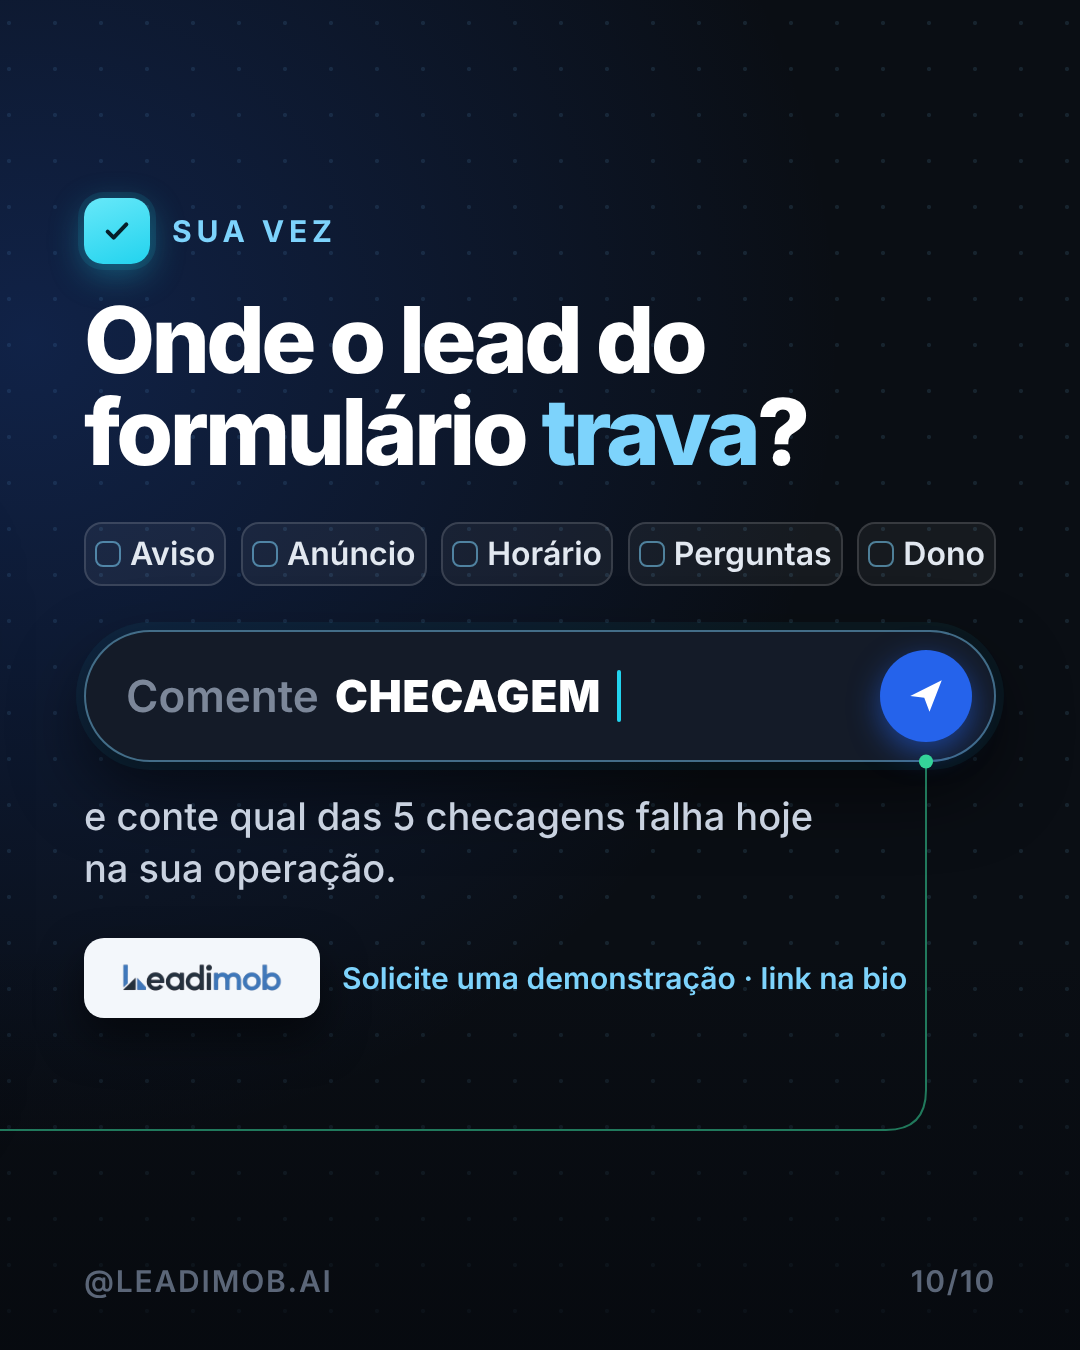
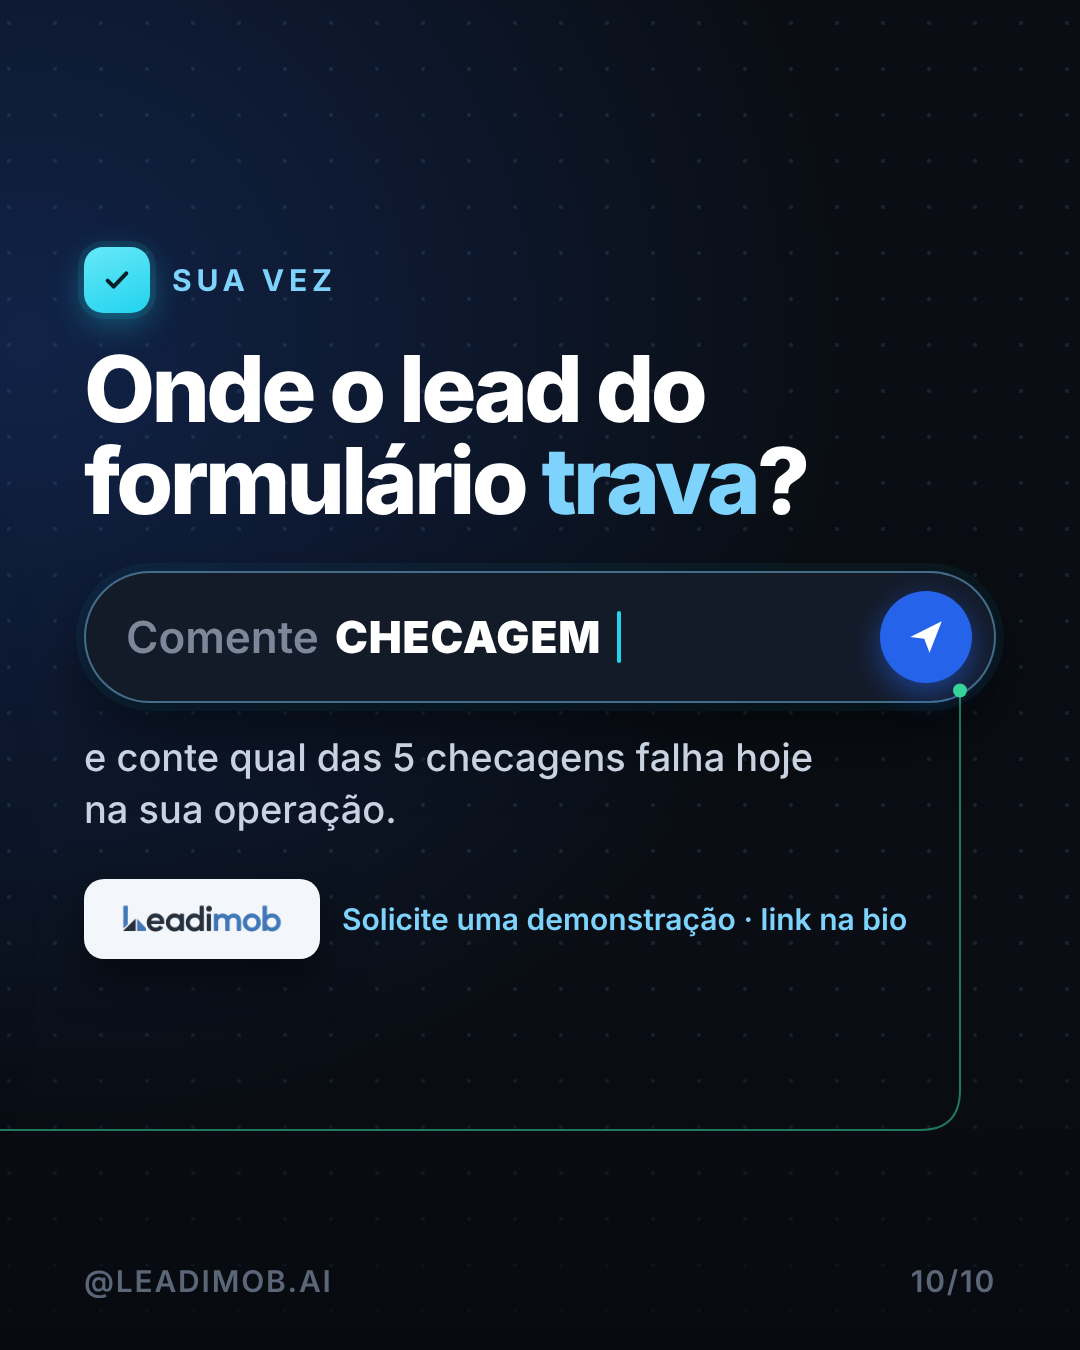
10/10: carrossel mais leve (em crítica final)
Claude-Session: https://claude.ai/code/session_016a8cwUDTswJAyhXi9pdNNX

diff --git a/instagram/2026-10-10/src/c1-index.html b/instagram/2026-10-10/src/c1-index.html
@@ -59,8 +59,8 @@ body{background:#0A0E14;width:10800px;height:1350px;overflow:hidden;font-family:
 .bt{font-size:30px}
 /* formulário do anúncio */
 .form{width:912px;padding:34px 36px 36px}
-.form .lab{margin-bottom:26px}
-.fld{border:2px solid rgba(255,255,255,.12);background:rgba(255,255,255,.03);border-radius:18px;padding:22px 26px;margin-bottom:16px;display:flex;justify-content:space-between;align-items:center}
+.form .lab{margin-bottom:20px}
+.fld{border:2px solid rgba(255,255,255,.12);background:rgba(255,255,255,.03);border-radius:18px;padding:18px 26px;margin-bottom:16px;display:flex;justify-content:space-between;align-items:center}
 .fld b{font:600 30px/1 IN;color:#7C8799;letter-spacing:.02em}
 .fld span{font:600 40px/1 IN;color:#E2E8F0}
 .btn{margin-top:22px;height:96px;border-radius:18px;background:#2563EB;display:flex;align-items:center;justify-content:center;gap:14px;font:700 36px/1 IN;color:#fff;box-shadow:0 14px 34px rgba(37,99,235,.45)}
@@ -147,29 +147,24 @@ body{background:#0A0E14;width:10800px;height:1350px;overflow:hidden;font-family:
   <div class="ttl" style="margin:0"><div class="num"><svg width="34" height="34" viewBox="0 0 24 24" fill="none" stroke="#06202A" stroke-width="2.4" stroke-linecap="round" stroke-linejoin="round"><rect x="3.500" y="3.500" width="17" height="17" rx="4"/><path d="M8 12.300l2.800 2.800L16.200 9.300"/></svg></div><div class="kick">Checklist</div></div>
   <span class="chip cy"><svg width="24" height="28" viewBox="0 0 20 24"><path d="M3 2h14v20l-7-5.500L3 22z" fill="#A5F3FC"/></svg>Salve este post</span>
  </div>
- <div class="card form" style="margin-top:56px">
+ <div class="card form" style="margin-top:44px;padding:28px 36px 30px">
   <div class="lab">Formulário do anúncio</div>
   <div class="fld"><b>Nome</b><span>Carla</span></div>
+  <div class="fld"><b>WhatsApp</b><span>(••) •••••-••••</span></div>
   <div class="btn">Enviar <svg width="30" height="30" viewBox="0 0 24 24"><path d="M3 12 L21 3 L14 21 L11 13 Z" fill="#fff"/></svg></div>
  </div>
- <div class="h1" style="margin-top:64px;font-size:104px;line-height:1.0">O lead preencheu.<br>Alguém <span class="hl">respondeu?</span></div>
- <div class="p" style="margin-top:32px;font-size:42px;color:#E2E8F0">5 checagens para ver onde o lead do formulário trava.</div>
+ <div class="h1" style="margin-top:44px;font-size:96px;line-height:1.0">O lead preencheu.<br>Alguém <span class="hl">respondeu?</span></div>
+ <div class="p" style="margin-top:24px;font-size:42px;color:#E2E8F0">5 checagens para ver onde o lead do formulário trava.</div>
  <div class="foot"><span>@LEADIMOB.AI</span><span style="color:#7DD3FC">ARRASTE →</span></div></div>
 
-<!-- 2 problema: caminho travado (formulário → planilha) -->
+<!-- 2 problema: o lead parado na planilha -->
 <div class="sl" style="left:1080px;padding-top:236px">
  <div class="ttl"><div class="num">!</div><div class="kick">O problema</div></div>
  <div class="h2">Chegou sábado, 22:47.<br><span style="color:#8794A8">E parou na planilha.</span></div>
  <div class="p">Ninguém foi avisado. Ninguém escreveu.</div>
- <div class="art" style="display:flex;align-items:center;width:912px">
-  <div class="card" style="width:300px;padding:30px 26px;text-align:center">
-   <svg width="54" height="54" viewBox="0 0 24 24" fill="none" stroke="#7DD3FC" stroke-width="1.8" stroke-linejoin="round" stroke-linecap="round"><rect x="5" y="3" width="14" height="18" rx="2.5"/><path d="M8.500 8h7M8.500 12h7M8.500 16h4"/></svg>
-   <div style="font:700 34px/1.1 IN;margin-top:14px">Formulário</div><div style="font:500 30px/1.2 IN;color:#7C8799;margin-top:8px">sáb. 22:47</div></div>
-  <div style="flex:1;height:3px;background:#22D3EE;opacity:.7;position:relative"><span style="position:absolute;right:-2px;top:-9px;border-left:16px solid #22D3EE;border-top:10px solid transparent;border-bottom:10px solid transparent"></span></div>
-  <div class="card" style="width:500px;padding:26px 28px 14px">
-   <div class="lab" style="margin-bottom:14px"><svg width="30" height="30" viewBox="0 0 24 24" fill="none" stroke="#7C8799" stroke-width="2"><rect x="3" y="4" width="18" height="16" rx="2"/><path d="M3 10h18M9 4v16"/></svg>Planilha</div>
-   <div class="row"><span>Carla</span><span class="chip nt" style="font-size:30px;padding:12px 20px">Sem contato</span></div>
-  </div>
+ <div class="card art" style="width:912px;padding:30px 36px 18px">
+   <div class="lab" style="margin-bottom:14px"><svg width="30" height="30" viewBox="0 0 24 24" fill="none" stroke="#7C8799" stroke-width="2"><rect x="3" y="4" width="18" height="16" rx="2"/><path d="M3 10h18M9 4v16"/></svg>Planilha de leads</div>
+   <div class="row"><span>Carla<small>sáb. 22:47</small></span><span class="chip nt" style="font-size:30px;padding:12px 20px">Sem contato</span></div>
  </div>
  <div class="foot"><span>@LEADIMOB.AI</span><span>2/10</span></div></div>
 <div class="stop" style="left:1840px"></div>
@@ -216,7 +211,7 @@ body{background:#0A0E14;width:10800px;height:1350px;overflow:hidden;font-family:
 <!-- 6 checagem 3 -->
 <div class="sl" style="left:5400px;padding:96px 84px 240px"><div class="ghost" style="-webkit-text-stroke-color:rgba(125,211,252,.08)">03</div>
  <div class="ttl"><div class="num">03</div><div class="kick">horário</div></div>
- <div class="h2">Alguém responde às <span class="hl">22h</span>?</div>
+ <div class="h2">Alguém responde <span class="hl">à noite</span>?</div>
  <div class="p">O formulário chega quando o cliente tem tempo: à noite, no fim de semana.</div>
  <div class="card day24 art">
   <div class="lab">Quando o formulário chegou</div>
@@ -249,7 +244,7 @@ body{background:#0A0E14;width:10800px;height:1350px;overflow:hidden;font-family:
  <div class="card crm art">
   <div class="hd"><div class="av">C</div><div><div style="font:700 38px/1.1 IN">Carla</div><div style="font:500 30px/1.3 IN;color:#7C8799">Apto 2 quartos · Centro</div></div></div>
   <div class="kv"><b>Dono</b><span>Ana, corretora</span></div>
-  <div class="kv"><b>Próximo passo</b><span class="chip nt" style="font-size:32px">Enviar fotos hoje</span></div>
+  <div class="kv"><b>Próximo passo</b><span class="chip nt" style="font-size:32px">Agendar visita</span></div>
  </div>
  <div class="foot"><span>@LEADIMOB.AI</span><span>8/10</span></div></div>
 <div class="gate" style="left:8440px"><i><svg width="28" height="28" viewBox="0 0 24 24"><path d="M5 12.500l4.500 4.500L19 7" stroke="#06202A" stroke-width="3.4" fill="none" stroke-linecap="round" stroke-linejoin="round"/></svg></i></div>
@@ -267,10 +262,9 @@ body{background:#0A0E14;width:10800px;height:1350px;overflow:hidden;font-family:
  <div class="foot"><span>@LEADIMOB.AI</span><span>9/10</span></div></div>
 
 <!-- 10 CTA: seu resultado -->
-<div class="sl" style="left:9720px;padding-bottom:230px">
+<div class="sl" style="left:9720px;padding-bottom:240px">
  <div class="ttl"><div class="num"><svg width="32" height="32" viewBox="0 0 24 24"><path d="M5 12.500l4.500 4.500L19 7" stroke="#06202A" stroke-width="3" fill="none" stroke-linecap="round" stroke-linejoin="round"/></svg></div><div class="kick">Sua vez</div></div>
  <div class="h2">Onde o lead do formulário <span class="hl">trava</span>?</div>
- <div class="mini" style="margin-top:44px"><span><i></i>Aviso</span><span><i></i>Anúncio</span><span><i></i>Horário</span><span><i></i>Perguntas</span><span><i></i>Dono</span></div>
  <div id="a-field" style="margin-top:44px;height:132px;border-radius:66px;background:#141B28;border:2px solid rgba(125,211,252,.45);box-shadow:0 0 0 8px rgba(34,211,238,.06),0 30px 70px rgba(0,0,0,.55);display:flex;align-items:center;padding:0 22px 0 40px;gap:16px;font:600 44px IN">
   <span style="color:#7C8799">Comente</span><span style="font-weight:900;letter-spacing:.02em">CHECAGEM</span><span style="width:4px;height:52px;background:#22D3EE;border-radius:2px"></span>
   <span id="a-send" style="margin-left:auto;width:92px;height:92px;border-radius:50%;background:#2563EB;display:flex;align-items:center;justify-content:center;box-shadow:0 10px 30px rgba(37,99,235,.55)"><svg width="42" height="42" viewBox="0 0 24 24"><path d="M3 12 L21 3 L14 21 L11 13 Z" fill="#fff"/></svg></span>
@@ -290,12 +284,12 @@ function fio(){
  const S=document.getElementById('fio'),st=document.getElementById('strip').getBoundingClientRect();
  const r=id=>{const b=document.getElementById(id).getBoundingClientRect();return{x:b.left-st.left,y:b.top-st.top,w:b.width,h:b.height}};
  const Y=1130,c=r('a-chat'),b=r('a-send'),fl=r('a-field'),R=40;
- const cx=c.x+c.w/2, cy=c.y+c.h, bx=b.x+b.w/2, by=fl.y+fl.h, X0=2340;
+ const cx=c.x+c.w/2, cy=c.y+c.h, bx=Math.round(b.x+b.w/2)+34, by=fl.y+fl.h-12, X0=2340;
  S.innerHTML=`<defs>
- <linearGradient id="g1" gradientUnits="userSpaceOnUse" x1="0" x2="1840" y1="0" y2="0"><stop offset="0" stop-color="#22D3EE" stop-opacity="0"/><stop offset=".12" stop-color="#22D3EE"/><stop offset="1" stop-color="#22D3EE"/></linearGradient>
+ <linearGradient id="g1" gradientUnits="userSpaceOnUse" x1="640" x2="1840" y1="0" y2="0"><stop offset="0" stop-color="#22D3EE" stop-opacity="0"/><stop offset=".12" stop-color="#22D3EE"/><stop offset="1" stop-color="#22D3EE"/></linearGradient>
  <linearGradient id="g2" gradientUnits="userSpaceOnUse" x1="${X0}" x2="9200" y1="0" y2="0"><stop offset="0" stop-color="#22D3EE" stop-opacity=".9"/><stop offset=".92" stop-color="#22D3EE" stop-opacity=".9"/><stop offset="1" stop-color="#34D399" stop-opacity=".9"/></linearGradient>
  <filter id="gl" x="-5%" y="-50%" width="110%" height="200%"><feGaussianBlur stdDeviation="6"/></filter></defs>`;
- const d1=`M0,${Y} H1824`;
+ const d1=`M640,${Y} H1824`;
  const d2=`M${X0+14},${Y} H${cx-R} Q${cx},${Y} ${cx},${Y-R} V${cy}`;
  const d3=`M${cx-R},${Y} H${bx-R} Q${bx},${Y} ${bx},${Y-R} V${by}`;
  for(const[d,g]of[[d1,'g1'],[d2,'g2']]){

diff --git a/instagram/2026-10-10/carrossel/carrossel-editor.html b/instagram/2026-10-10/carrossel/carrossel-editor.html
@@ -312,7 +312,7 @@ input[type=range]{width:100%;accent-color:#6C5CE7;height:18px;cursor:pointer;}
     </div>
   </div>
 </div>
-<script id="deck-data" type="application/json">{"kit": "tech", "formato": "4:5", "paleta": {"bg": "#0A0E14", "fg": "#FFFFFF", "muted": "#8A93A3", "accent": "#22D3EE", "surface": "#141B28", "cream": "#F3F7FB"}, "handle": "@leadimob.ai", "slides": [{"tipo": "capa", "kicker": "CHECKLIST · SALVE ESTE POST", "titulo": "O lead preencheu. Alguém respondeu?", "sub": "5 checagens para ver onde o lead do formulário trava."}, {"tipo": "conteudo", "kicker": "O PROBLEMA", "titulo": "Chegou sábado, 22:47. E parou na planilha.", "sub": "Ninguém foi avisado. Ninguém escreveu."}, {"tipo": "conteudo", "kicker": "O TESTE", "titulo": "Preencha o seu próprio formulário.", "sub": "Depois, confira as 5 checagens: Aviso · Anúncio · Horário · Perguntas · Dono."}, {"tipo": "conteudo", "kicker": "01 · AVISO", "titulo": "Alguém fica sabendo na hora?", "sub": "Formulário enviado vira aviso no celular, não planilha para baixar depois."}, {"tipo": "conteudo", "kicker": "02 · ANÚNCIO", "titulo": "A primeira mensagem cita o anúncio?", "sub": "O cliente precisa reconhecer o imóvel."}, {"tipo": "conteudo", "kicker": "03 · HORÁRIO", "titulo": "Alguém responde às 22h?", "sub": "O formulário chega quando o cliente tem tempo: à noite, no fim de semana."}, {"tipo": "conteudo", "kicker": "04 · PERGUNTAS", "titulo": "Alguém pergunta antes de mandar imóveis?", "sub": "As respostas dizem o que vale enviar."}, {"tipo": "conteudo", "kicker": "05 · DONO", "titulo": "Cada lead tem dono e próximo passo?", "sub": "Sem isso, o lead fica esquecido na planilha."}, {"tipo": "conteudo", "kicker": "ONDE A LEADIMOB ENTRA", "titulo": "Formulário enviado. Conversa iniciada.", "sub": "A Leadimob abre a conversa no WhatsApp na hora, citando o anúncio."}, {"tipo": "cta", "kicker": "SUA VEZ", "titulo": "Onde o lead do formulário trava?", "sub": "Comente CHECAGEM e conte qual das 5 checagens falha hoje na sua operação."}]}</script>
+<script id="deck-data" type="application/json">{"kit": "tech", "formato": "4:5", "paleta": {"bg": "#0A0E14", "fg": "#FFFFFF", "muted": "#8A93A3", "accent": "#22D3EE", "surface": "#141B28", "cream": "#F3F7FB"}, "handle": "@leadimob.ai", "slides": [{"tipo": "capa", "kicker": "CHECKLIST · SALVE ESTE POST", "titulo": "O lead preencheu. Alguém respondeu?", "sub": "5 checagens para ver onde o lead do formulário trava."}, {"tipo": "conteudo", "kicker": "O PROBLEMA", "titulo": "Chegou sábado, 22:47. E parou na planilha.", "sub": "Ninguém foi avisado. Ninguém escreveu."}, {"tipo": "conteudo", "kicker": "O TESTE", "titulo": "Preencha o seu próprio formulário.", "sub": "Depois, confira as 5 checagens: Aviso · Anúncio · Horário · Perguntas · Dono."}, {"tipo": "conteudo", "kicker": "01 · AVISO", "titulo": "Alguém fica sabendo na hora?", "sub": "Formulário enviado vira aviso no celular, não planilha para baixar depois."}, {"tipo": "conteudo", "kicker": "02 · ANÚNCIO", "titulo": "A primeira mensagem cita o anúncio?", "sub": "O cliente precisa reconhecer o imóvel."}, {"tipo": "conteudo", "kicker": "03 · HORÁRIO", "titulo": "Alguém responde à noite?", "sub": "O formulário chega quando o cliente tem tempo: à noite, no fim de semana."}, {"tipo": "conteudo", "kicker": "04 · PERGUNTAS", "titulo": "Alguém pergunta antes de mandar imóveis?", "sub": "As respostas dizem o que vale enviar."}, {"tipo": "conteudo", "kicker": "05 · DONO", "titulo": "Cada lead tem dono e próximo passo?", "sub": "Sem isso, o lead fica esquecido na planilha."}, {"tipo": "conteudo", "kicker": "ONDE A LEADIMOB ENTRA", "titulo": "Formulário enviado. Conversa iniciada.", "sub": "A Leadimob abre a conversa no WhatsApp na hora, citando o anúncio."}, {"tipo": "cta", "kicker": "SUA VEZ", "titulo": "Onde o lead do formulário trava?", "sub": "Comente CHECAGEM e conte qual das 5 checagens falha hoje na sua operação."}]}</script>
 <script>
 const KITS = {
   "editorial":     {disp:"Anton", body:"Inter", mono:"JetBrains Mono", serif:"Instrument Serif",
